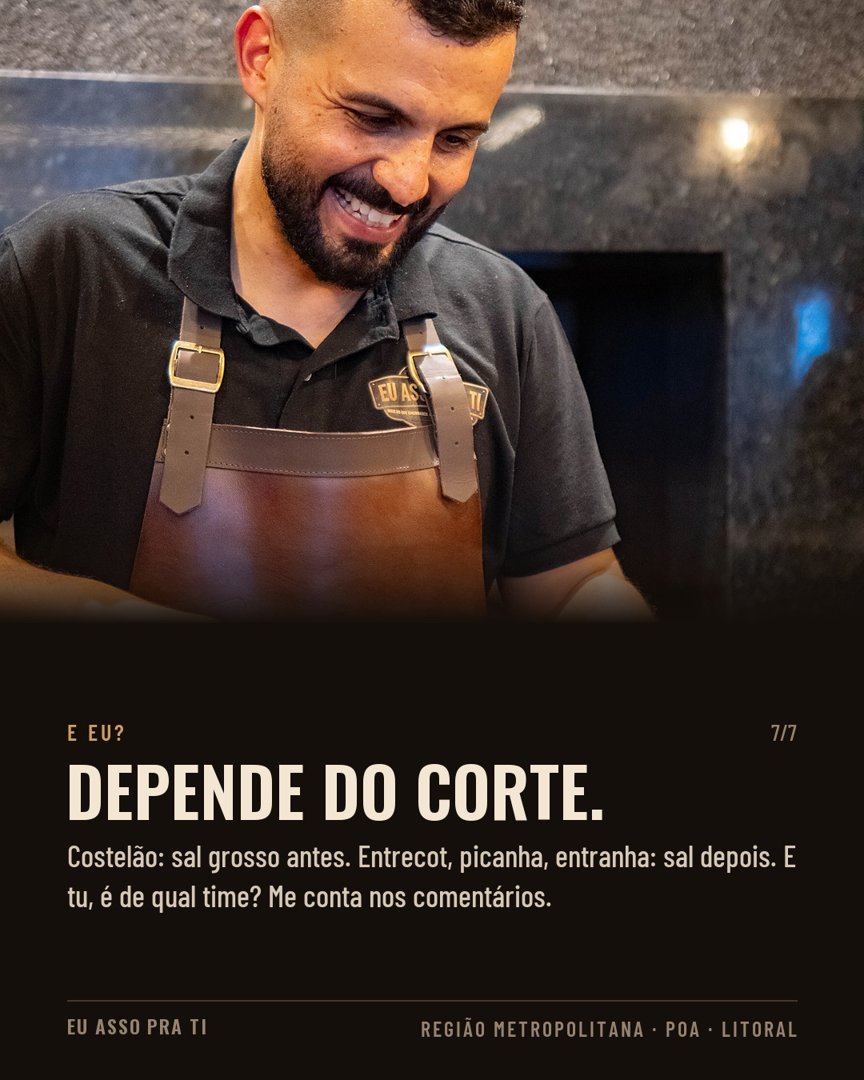
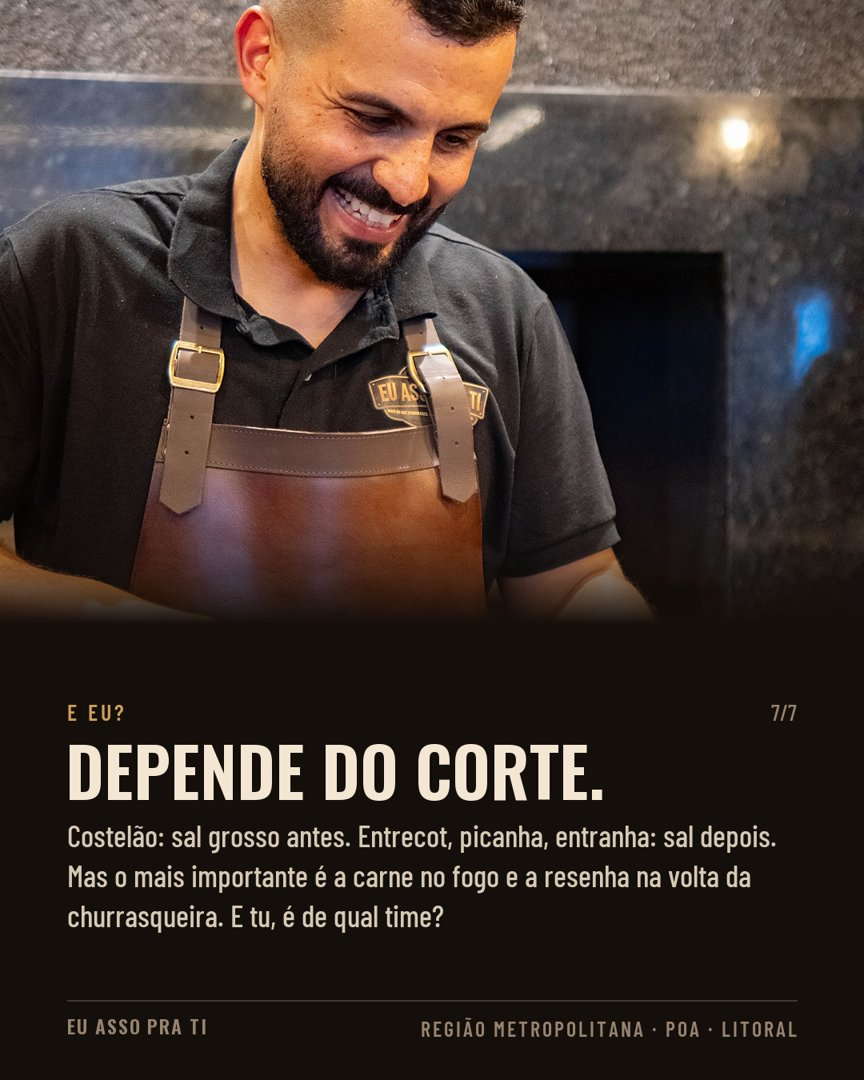
Post 07: fecho do Diego sobre a resenha na churrasqueira

Changed region(s): [[0.0625, 0.6417, 0.9375, 0.8861], [0.875, 0.6417, 0.9375, 0.6722]]

diff --git a/calendario/index.html b/calendario/index.html
@@ -111,6 +111,8 @@ A discussão que nunca acaba na beira da churrasqueira. Antes de escolher o teu 
 
 E eu? Depende do corte. Costelão, sal grosso antes. Entrecot, picanha e entranha, sal depois.
 
+Mas, independente do sal, o mais importante é a carne no fogo e a resenha na volta da churrasqueira 🔥
+
 Agora me conta aqui nos comentários: tu é de qual time? 👇
 
 📸 @francofilms_ e @taiguara_filmes
